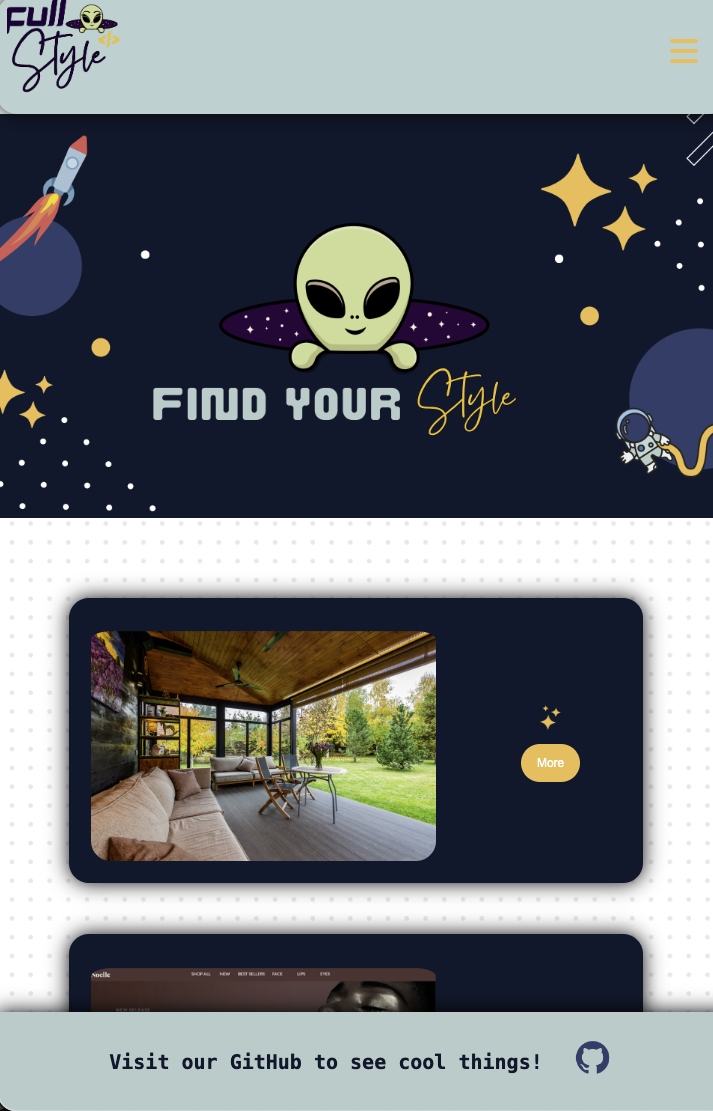
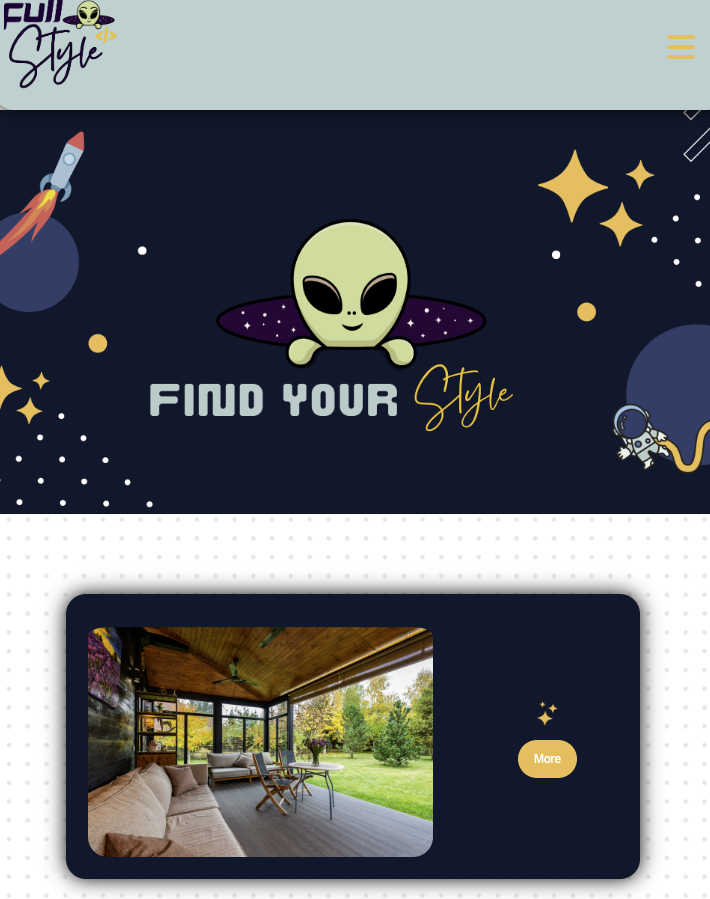
image sizes adjusted

diff --git a/app/page.jsx b/app/page.jsx
@@ -3,14 +3,14 @@ import { AiFillLinkedin } from 'react-icons/ai'
 import Image from 'next/image';
 import dilan from '../public/dilan.png'
 import flightcatcher from '../public/flightcatcher.png'
-import fullstyle from '../public/fullstyle.png'
 import ravemap from '../public/ravemap.png'
+import fullstyle from '../public/fullstyle.png'
 
 
 
 export default function Home() {
   return (
-    <main className=" bg-emerald-100 sm:text-sm font-mono">
+    <main className=" bg-emerald-100 sm:text-xxsm lg:text-md font-mono">
       <section className="min-h-screen">
         <nav className="p-3 sm:py-6 mb-2 sm:mb-5 flex justify-between">
           <h1 className="text-sm sm:text-base font-mono font-bold pl-2 ms: text-xl5">DILAN GUTEKUNST</h1>
@@ -29,25 +29,25 @@ export default function Home() {
           </ul>
         </nav>
         <div className="relative mx-auto bg-gradient-to-b from-green-500 rounded-full w-60 h-60 mt-10">
-          <Image src={dilan} layout='fill' />
+          <Image src={dilan} layout='fill'alt="image" />
         </div>
 
         <div className="text-center p-5">
           <h2 className="text-m p-5  font-semibold font-mono  font-semibol md:text-3xl">Developer & Entrepreneur</h2>
-          <p className="text-sm-auto leading-8 font-mono">Dilan Gutekunst is a dedicated and enthusiastic individual with a passion for technology and problem-solving. With a background in web development and e-commerce, Dilan has honed her skills in JavaScript, React, HTML, CSS, and other relevant technologies. As the founder of a sustainable online shop, she has demonstrated her ability to optimize web content, enhance user experiences, and drive business growth through effective SEO strategies. Dilan is known for her strong work ethic, attention to detail, and ability to work well both independently and as part of a team. She is eager to continue learning and growing in the field of technology and is excited about the opportunity to contribute her skills and expertise to innovative projects.</p>
+          <p className="text-md py-2 leading-8 text-gray-800">Dilan Gutekunst is a dedicated and enthusiastic individual with a passion for technology and problem-solving. With a background in web development and e-commerce, Dilan has honed her skills in JavaScript, React, HTML, CSS, and other relevant technologies. As the founder of a sustainable online shop, she has demonstrated her ability to optimize web content, enhance user experiences, and drive business growth through effective SEO strategies. Dilan is known for her strong work ethic, attention to detail, and ability to work well both independently and as part of a team. She is eager to continue learning and growing in the field of technology and is excited about the opportunity to contribute her skills and expertise to innovative projects.</p>
         </div>
 
         <section >
           <div className='p-2 text-sm-auto text-center '>
             <h3 className="text-m text-center font-semibold font-mono  py-2 md:text-3xl">Projects</h3>
-            <p className="text-md py-2 leading-8 text-gray-800">Creating websites or web applications using programming languages like HTML, CSS, and JavaScript, along with frameworks like <span className="text-teal-500">React and Tailwind.</span></p>
+            <p className="text-md py-2 leading-8 text-gray-800">Creating websites or web applications using programming languages like HTML, CSS, and JavaScript, along with frameworks like <span className="text-teal-500">React </span>and <span className="text-teal-500">Tailwind.</span></p>
 
             <div className=' flex flex-wrap gap-3 auto-cols-auto'>
               <div className="text-center  bg-gray-100 hover:shadow-xl p-10 rounded-xl my-4 flex-1">
                 <h2 className=' p-3'>Full Style</h2>
-                <Image src={fullstyle} width={200} height={200} className="rounded-xl mx-auto my-auto" />
-                <div className="flex justify-center mt-3">
-                  <a href="https://github.com/FullStyle-app" target="_blank" rel="noopener noreferrer" className="mr-4">
+                <Image src={fullstyle} width={210} height={210} alt="image1" className="rounded-xl mx-auto my-auto w-48 h-48" />           
+                     <div className="flex justify-center mt-3">
+                  <a href="https://github.com/FullStyle-app" target="_blank" rel="noopener noreferrer"   className="mr-4">
                     <svg xmlns="http://www.w3.org/2000/svg" className="h-5 w-5 text-gray-500 hover:text-gray-700" viewBox="0 0 20 20" fill="currentColor">
                       <path fillRule="evenodd" d="M10 0a10 10 0 00-3.16 19.49c.5.09.68-.22.68-.49l-.01-1.73c-2.78.6-3.37-1.34-3.37-1.34-.45-1.15-1.09-1.46-1.09-1.46-.89-.61.07-.6.07-.6 1 .07 1.53 1.03 1.53 1.03.89 1.53 2.34 1.09 2.91.83.09-.63.34-1.08.62-1.33-2.17-.25-4.45-1.08-4.45-4.8 0-1.06.37-1.93.98-2.61-.1-.24-.42-1.24.09-2.58 0 0 .82-.26 2.7 1 1.17-.33 2.42-.5 3.66-.5s2.49.17 3.66.5c1.88-1.26 2.7-1 2.7-1 .51 1.34.19 2.34.09 2.58.61.68.98 1.46.98 2.61 0 3.73-2.29 4.55-4.46 4.8.35.3.67.9.67 1.82l-.01 2.7c0 .27.18.58.69.48A10 10 0 0010 0z" clipRule="evenodd" />
                     </svg>
@@ -63,8 +63,7 @@ export default function Home() {
               </div>
               <div className="text-center bg-gray-100 hover:shadow-xl p-10 rounded-xl my-3 flex-1">
                 <h2 className=' p-3'>Flight Catcher</h2>
-                <Image src={flightcatcher} width={210} height={210} className="rounded-xl mx-auto my-auto" />
-                <div className="flex justify-center mt-3">
+                <Image src={flightcatcher} width={210} height={210} alt="image2"className="rounded-xl mx-auto my-auto w-48 h-48" />                <div className="flex justify-center mt-3">
                   <a href="https://github.com/karkelo1/flight-catcher" target="_blank" rel="noopener noreferrer" className="mr-4">
                     <svg xmlns="http://www.w3.org/2000/svg" className="h-5 w-5 text-gray-500 hover:text-gray-700" viewBox="0 0 20 20" fill="currentColor">
                       <path fillRule="evenodd" d="M10 0a10 10 0 00-3.16 19.49c.5.09.68-.22.68-.49l-.01-1.73c-2.78.6-3.37-1.34-3.37-1.34-.45-1.15-1.09-1.46-1.09-1.46-.89-.61.07-.6.07-.6 1 .07 1.53 1.03 1.53 1.03.89 1.53 2.34 1.09 2.91.83.09-.63.34-1.08.62-1.33-2.17-.25-4.45-1.08-4.45-4.8 0-1.06.37-1.93.98-2.61-.1-.24-.42-1.24.09-2.58 0 0 .82-.26 2.7 1 1.17-.33 2.42-.5 3.66-.5s2.49.17 3.66.5c1.88-1.26 2.7-1 2.7-1 .51 1.34.19 2.34.09 2.58.61.68.98 1.46.98 2.61 0 3.73-2.29 4.55-4.46 4.8.35.3.67.9.67 1.82l-.01 2.7c0 .27.18.58.69.48A10 10 0 0010 0z" clipRule="evenodd" />
@@ -80,8 +79,7 @@ export default function Home() {
               </div>
               <div className="text-center bg-gray-100 hover:shadow-xl p-10 rounded-xl my-5 flex-1">
                 <h2 className='p-3'>Rave Mape</h2>
-                <Image src={ravemap} width={200} height={200} className="rounded-xl mx-auto my-auto" />
-                <div className="flex justify-center mt-3">
+                <Image src={ravemap} width={210} height={210} alt="image3"className="rounded-xl mx-auto my-auto w-48 h-48" />                <div className="flex justify-center mt-3">
                   <a href="https://github.com/rave-map/react-rave-map" target="_blank" rel="noopener noreferrer" className="mr-4">
                     <svg xmlns="http://www.w3.org/2000/svg" className="h-5 w-5 text-gray-500 hover:text-gray-700" viewBox="0 0 20 20" fill="currentColor">
                       <path fillRule="evenodd" d="M10 0a10 10 0 00-3.16 19.49c.5.09.68-.22.68-.49l-.01-1.73c-2.78.6-3.37-1.34-3.37-1.34-.45-1.15-1.09-1.46-1.09-1.46-.89-.61.07-.6.07-.6 1 .07 1.53 1.03 1.53 1.03.89 1.53 2.34 1.09 2.91.83.09-.63.34-1.08.62-1.33-2.17-.25-4.45-1.08-4.45-4.8 0-1.06.37-1.93.98-2.61-.1-.24-.42-1.24.09-2.58 0 0 .82-.26 2.7 1 1.17-.33 2.42-.5 3.66-.5s2.49.17 3.66.5c1.88-1.26 2.7-1 2.7-1 .51 1.34.19 2.34.09 2.58.61.68.98 1.46.98 2.61 0 3.73-2.29 4.55-4.46 4.8.35.3.67.9.67 1.82l-.01 2.7c0 .27.18.58.69.48A10 10 0 0010 0z" clipRule="evenodd" />
